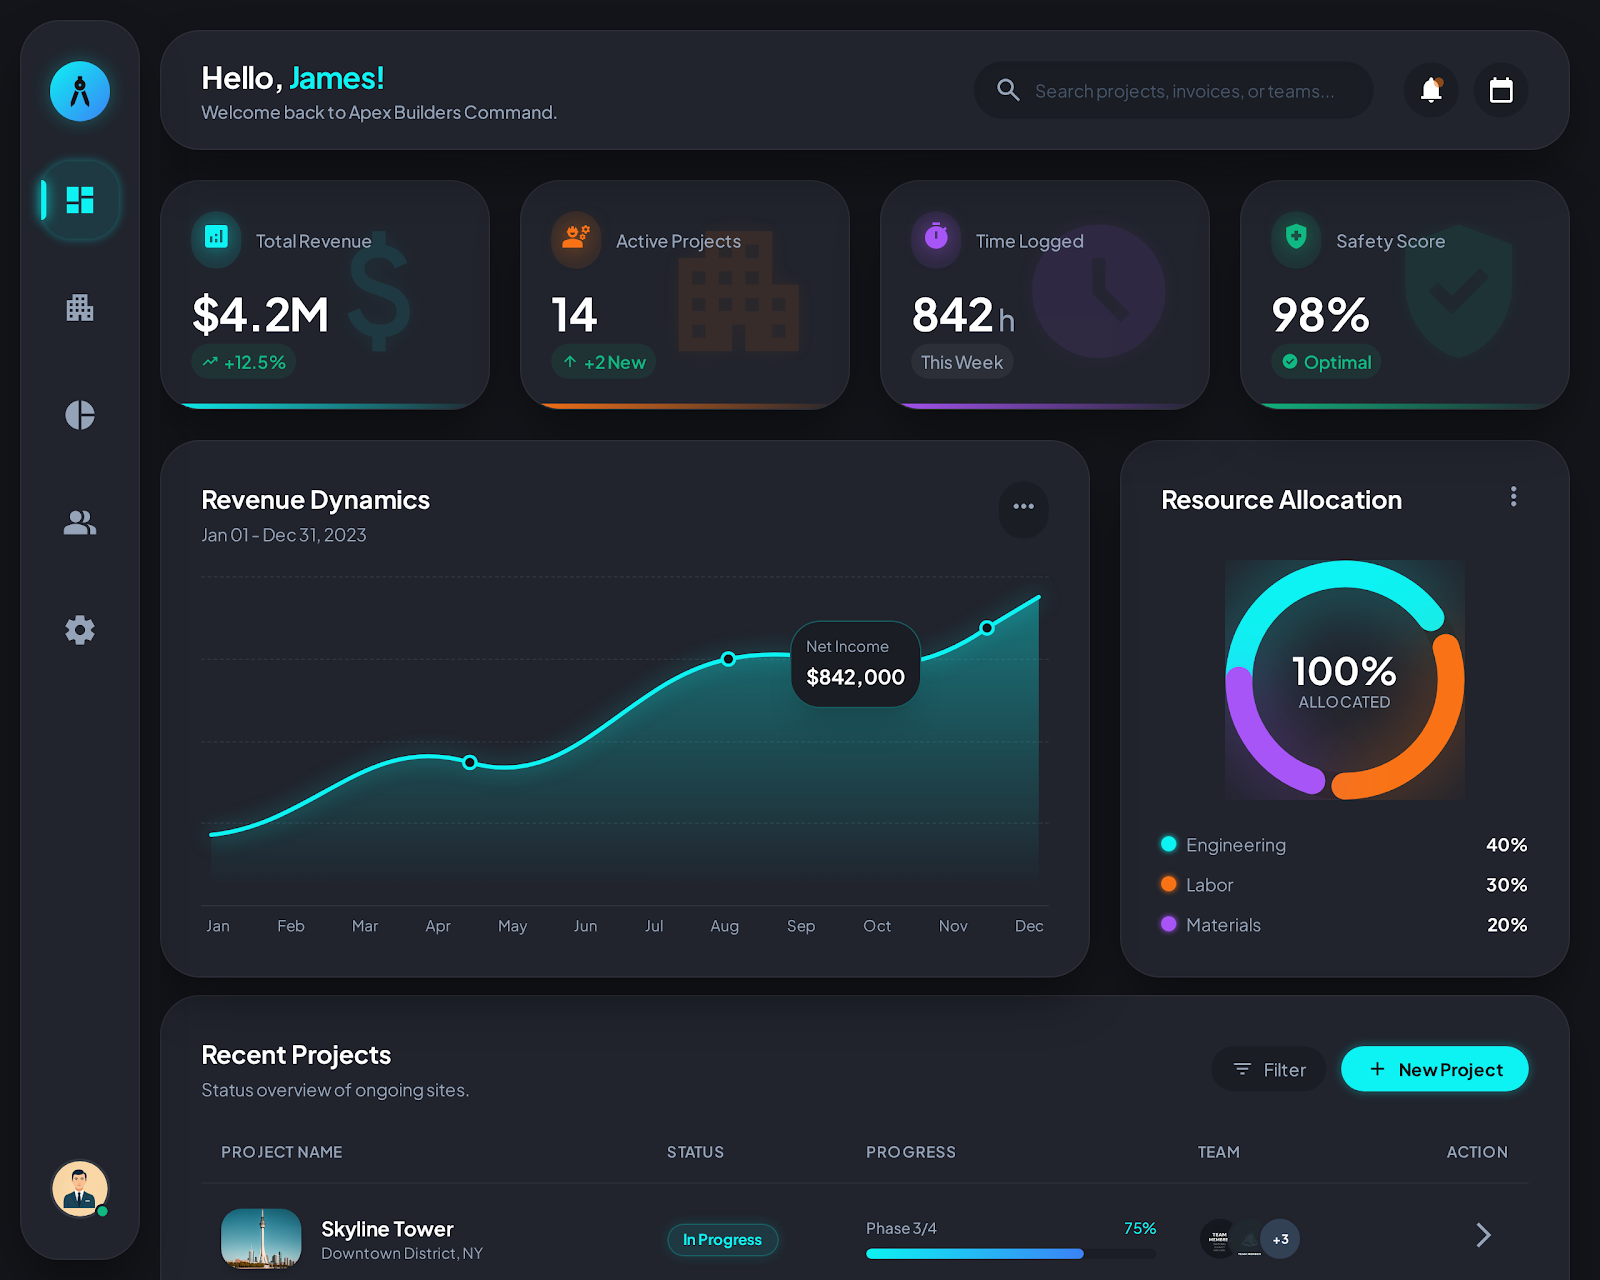
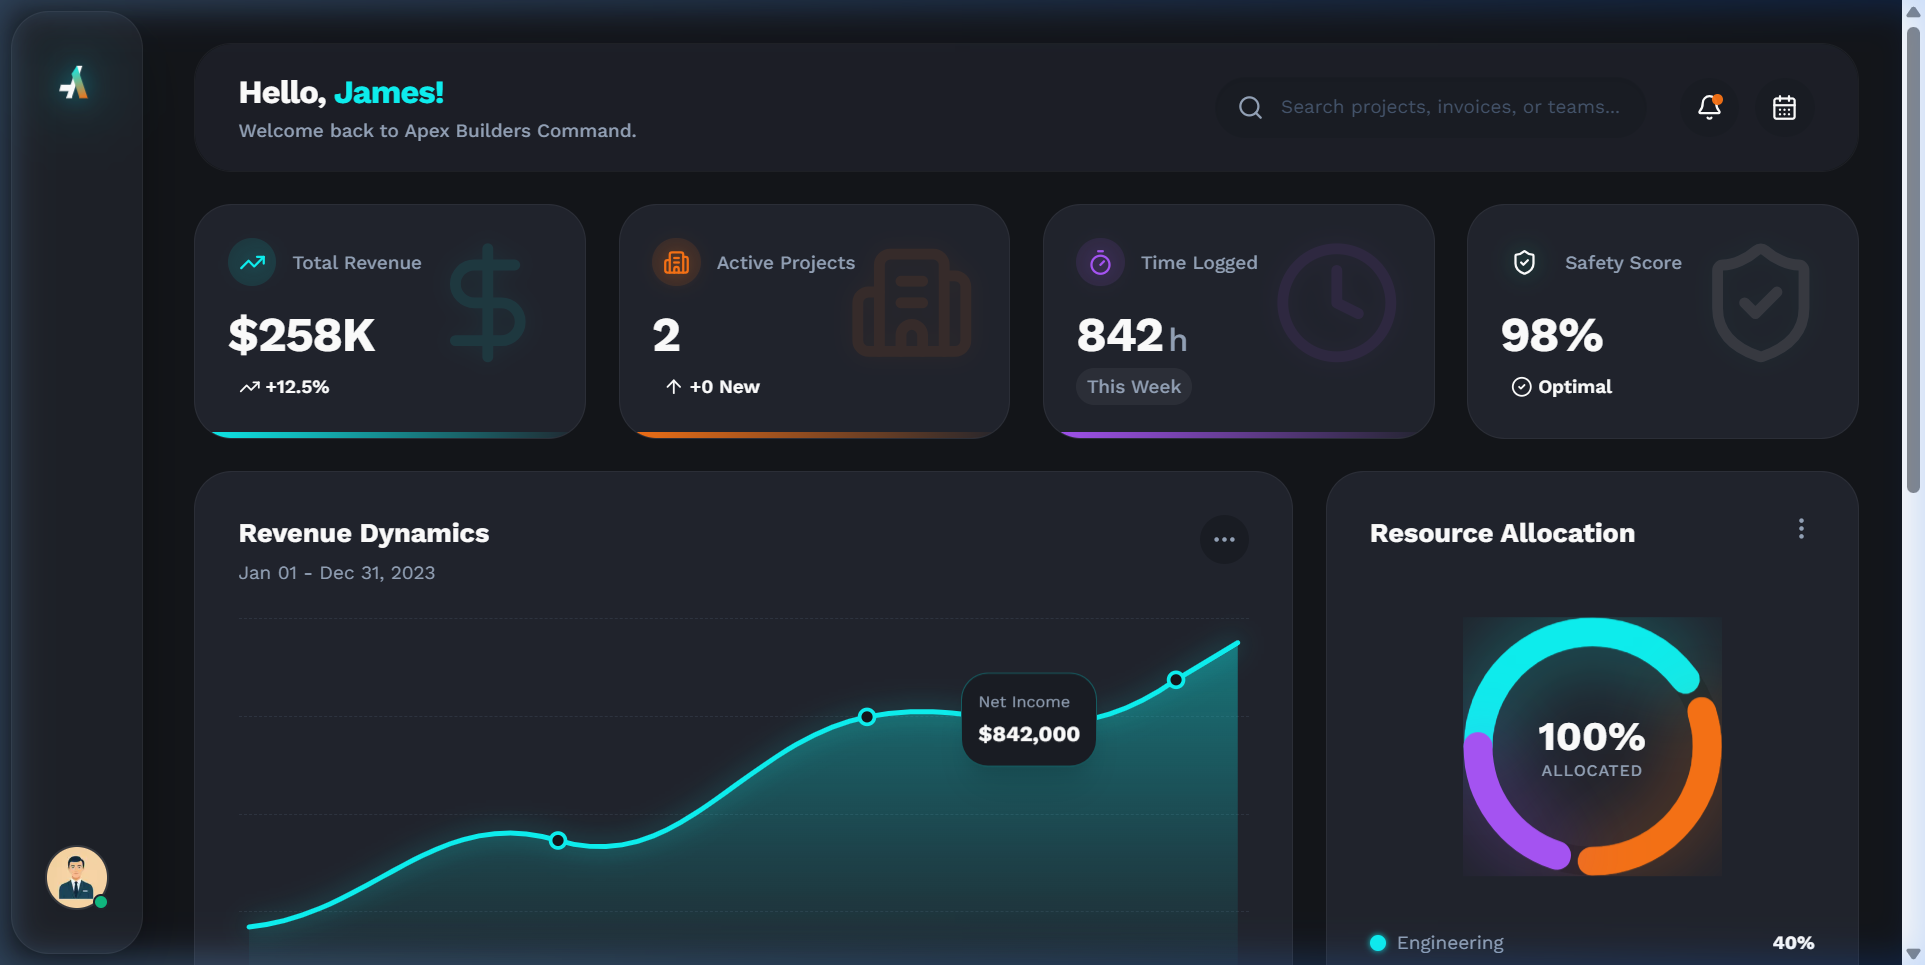
feat: Phase D — job photo upload, dashboard mockup, Vercel env vars
- JobActionCard: photo attach (Supabase Storage → project-media bucket)
- JobActionCard: project_log insert with note + photo URL on status change
- /public/assets/admin-dashboard-mockup.png: fixes landing page hero broken image
- constants.ts: add JOB_STATUS_UPDATE webhook constant
- Vercel: push NEXT_PUBLIC_N8N_AI_CHAT_WEBHOOK, LEAD_WEBHOOK, JOB_STATUS_UPDATE_NOTIFICATION

diff --git a/src/components/tech/JobActionCard.tsx b/src/components/tech/JobActionCard.tsx
@@ -1,0 +1,260 @@
+"use client";
+
+import { useRef, useState } from "react";
+import { CheckCircle, PlayCircle, MapPin, Calendar, Loader2, ChevronRight, Camera, X, ImageIcon } from "lucide-react";
+import { createClient } from "@/lib/supabase/client";
+import { N8N_WEBHOOKS } from "@/lib/constants";
+
+interface Job {
+  id: string;
+  title: string;
+  address?: string | null;
+  status: string;
+  category?: string | null;
+  estimated_completion?: string | null;
+}
+
+type ActionStatus = "idle" | "loading" | "done" | "error";
+
+const STATUS_FLOW: Record<string, { next: string; label: string; color: string }> = {
+  scheduled: { next: "in_progress", label: "Start Job", color: "from-primary to-orange-500" },
+  new: { next: "in_progress", label: "Start Job", color: "from-primary to-orange-500" },
+  in_progress: { next: "completed", label: "Complete Job", color: "from-green-500 to-emerald-400" },
+};
+
+const STATUS_BADGE: Record<string, string> = {
+  in_progress: "bg-emerald-500/20 text-emerald-400 border-emerald-500/30",
+  scheduled: "bg-blue-500/20 text-blue-400 border-blue-500/30",
+  new: "bg-yellow-500/20 text-yellow-400 border-yellow-500/30",
+  completed: "bg-slate-500/20 text-slate-400 border-slate-500/30",
+};
+
+export function JobActionCard({ job: initialJob }: { job: Job }) {
+  const [job, setJob] = useState(initialJob);
+  const [actionStatus, setActionStatus] = useState<ActionStatus>("idle");
+  const [note, setNote] = useState("");
+  const [showInputs, setShowInputs] = useState(false);
+  const [photo, setPhoto] = useState<File | null>(null);
+  const [photoPreview, setPhotoPreview] = useState<string | null>(null);
+  const fileRef = useRef<HTMLInputElement>(null);
+
+  const nextStep = STATUS_FLOW[job.status];
+  const isCompleted = job.status === "completed";
+
+  const handlePhoto = (e: React.ChangeEvent<HTMLInputElement>) => {
+    const file = e.target.files?.[0];
+    if (!file) return;
+    setPhoto(file);
+    setPhotoPreview(URL.createObjectURL(file));
+  };
+
+  const clearPhoto = () => {
+    setPhoto(null);
+    setPhotoPreview(null);
+    if (fileRef.current) fileRef.current.value = "";
+  };
+
+  const handleAction = async () => {
+    if (!nextStep || actionStatus === "loading") return;
+    setActionStatus("loading");
+
+    try {
+      const supabase = createClient();
+
+      // 1. Update project status in Supabase
+      const { error: updateError } = await supabase.from("projects").update({ status: nextStep.next }).eq("id", job.id);
+
+      if (updateError) throw updateError;
+
+      // 2. Upload photo to Supabase Storage (if provided)
+      let photoUrl: string | null = null;
+      if (photo) {
+        const ext = photo.name.split(".").pop();
+        const filePath = `project-logs/${job.id}/${Date.now()}.${ext}`;
+        const { error: uploadError } = await supabase.storage.from("project-media").upload(filePath, photo, { upsert: false });
+
+        if (!uploadError) {
+          const { data: urlData } = supabase.storage.from("project-media").getPublicUrl(filePath);
+          photoUrl = urlData?.publicUrl ?? null;
+        }
+        // Photo upload failure is non-critical — we still proceed
+      }
+
+      // 3. Insert a project_log entry with the note + optional photo
+      if (note.trim() || photoUrl) {
+        await supabase.from("project_logs").insert({
+          project_id: job.id,
+          description: note.trim() || `Status changed to ${nextStep.next.replace("_", " ")}`,
+          log_type: photoUrl ? "photo" : "note",
+          media_urls: photoUrl ? [photoUrl] : [],
+        });
+      }
+
+      // 4. Fire n8n notification (non-blocking)
+      if (N8N_WEBHOOKS.JOB_STATUS_UPDATE) {
+        fetch(N8N_WEBHOOKS.JOB_STATUS_UPDATE, {
+          method: "POST",
+          headers: { "Content-Type": "application/json" },
+          body: JSON.stringify({
+            jobId: job.id,
+            jobTitle: job.title,
+            address: job.address,
+            previousStatus: job.status,
+            newStatus: nextStep.next,
+            note: note.trim() || null,
+            photoUrl,
+            updatedAt: new Date().toISOString(),
+          }),
+        }).catch(() => {
+          /* Non-critical */
+        });
+      }
+
+      // 5. Optimistic UI update
+      setJob((prev) => ({ ...prev, status: nextStep.next }));
+      setActionStatus("done");
+      setShowInputs(false);
+      setNote("");
+      clearPhoto();
+      setTimeout(() => setActionStatus("idle"), 3000);
+    } catch {
+      setActionStatus("error");
+      setTimeout(() => setActionStatus("idle"), 3000);
+    }
+  };
+
+  return (
+    <div className="bg-card border border-white/5 rounded-xl p-6 hover:border-white/10 transition-all group">
+      {/* Top row */}
+      <div className="flex items-start justify-between mb-4">
+        <div className="flex-1 min-w-0">
+          <div className="flex items-center gap-2 mb-1">
+            <span
+              className={`inline-flex items-center px-2.5 py-1 rounded-full text-xs font-bold border capitalize ${
+                STATUS_BADGE[job.status] ?? "bg-slate-500/20 text-slate-400 border-slate-500/30"
+              }`}
+            >
+              {job.status.replace("_", " ")}
+            </span>
+            {job.category && <span className="text-xs text-slate-500 font-medium capitalize">{job.category}</span>}
+          </div>
+          <h3 className="text-white font-bold text-lg leading-tight truncate">{job.title}</h3>
+        </div>
+        <ChevronRight className="h-5 w-5 text-slate-600 group-hover:text-slate-400 transition-colors shrink-0 ml-2" />
+      </div>
+
+      {/* Meta row */}
+      <div className="flex flex-wrap gap-4 mb-5">
+        {job.address && (
+          <div className="flex items-center gap-1.5 text-sm text-slate-400">
+            <MapPin className="h-4 w-4 text-slate-500 shrink-0" />
+            <span className="truncate max-w-[200px]">{job.address.split(",")[0]}</span>
+          </div>
+        )}
+        {job.estimated_completion && (
+          <div className="flex items-center gap-1.5 text-sm text-slate-400">
+            <Calendar className="h-4 w-4 text-slate-500 shrink-0" />
+            <span>
+              {new Date(job.estimated_completion).toLocaleDateString("en-US", {
+                month: "short",
+                day: "numeric",
+              })}
+            </span>
+          </div>
+        )}
+      </div>
+
+      {/* Collapsible note + photo inputs */}
+      {showInputs && !isCompleted && (
+        <div className="mb-4 space-y-3">
+          <textarea
+            value={note}
+            onChange={(e) => setNote(e.target.value)}
+            placeholder="Add a field note — e.g. 'Electrical phase completed, passed inspection'"
+            rows={2}
+            className="w-full bg-background border border-white/10 rounded-xl px-4 py-3 text-white text-sm placeholder-slate-500 focus:outline-none focus:border-primary/50 focus:ring-1 focus:ring-primary/30 transition-all resize-none"
+          />
+
+          {/* Photo upload */}
+          {photoPreview ? (
+            <div className="relative rounded-xl overflow-hidden border border-white/10 w-full aspect-video">
+              {/* eslint-disable-next-line @next/next/no-img-element */}
+              <img src={photoPreview} alt="Site photo preview" className="w-full h-full object-cover" />
+              <button
+                onClick={clearPhoto}
+                className="absolute top-2 right-2 h-7 w-7 rounded-full bg-black/60 flex items-center justify-center text-white hover:bg-black/80 transition-colors"
+              >
+                <X className="h-4 w-4" />
+              </button>
+            </div>
+          ) : (
+            <button
+              onClick={() => fileRef.current?.click()}
+              className="w-full flex items-center justify-center gap-2 py-3 rounded-xl border border-dashed border-white/10 text-slate-400 hover:text-white hover:border-white/20 transition-colors text-sm font-medium"
+            >
+              <Camera className="h-4 w-4" />
+              Attach Site Photo
+            </button>
+          )}
+          <input ref={fileRef} type="file" accept="image/*" capture="environment" onChange={handlePhoto} className="hidden" />
+        </div>
+      )}
+
+      {/* Action row */}
+      {isCompleted ? (
+        <div className="flex items-center gap-2 text-emerald-400 font-semibold text-sm">
+          <CheckCircle className="h-5 w-5" />
+          Job Completed
+        </div>
+      ) : nextStep ? (
+        <div className="flex items-center gap-3">
+          <button
+            onClick={handleAction}
+            disabled={actionStatus === "loading" || actionStatus === "done"}
+            className={`flex-1 flex items-center justify-center gap-2 px-5 py-3 rounded-full font-bold text-sm text-white bg-linear-to-r ${nextStep.color} shadow-glow-primary hover:opacity-90 active:scale-95 transition-all disabled:opacity-60 disabled:cursor-not-allowed`}
+          >
+            {actionStatus === "loading" ? (
+              <>
+                <Loader2 className="h-4 w-4 animate-spin" /> Updating...
+              </>
+            ) : actionStatus === "done" ? (
+              <>
+                <CheckCircle className="h-4 w-4" /> Updated!
+              </>
+            ) : actionStatus === "error" ? (
+              <span>Try Again</span>
+            ) : (
+              <>
+                {job.status === "in_progress" ? <CheckCircle className="h-4 w-4" /> : <PlayCircle className="h-4 w-4" />}
+                {nextStep.label}
+              </>
+            )}
+          </button>
+
+          {!showInputs && actionStatus === "idle" && (
+            <button
+              onClick={() => setShowInputs(true)}
+              className="px-4 py-3 rounded-full bg-muted text-slate-400 hover:text-white hover:bg-white/10 border border-white/5 text-sm font-medium transition-colors flex items-center gap-1.5"
+            >
+              <ImageIcon className="h-4 w-4" />
+              Note
+            </button>
+          )}
+
+          {showInputs && (
+            <button
+              onClick={() => {
+                setShowInputs(false);
+                setNote("");
+                clearPhoto();
+              }}
+              className="px-4 py-3 rounded-full bg-muted text-slate-400 hover:text-white hover:bg-white/10 border border-white/5 text-sm font-medium transition-colors"
+            >
+              Cancel
+            </button>
+          )}
+        </div>
+      ) : null}
+    </div>
+  );
+}

diff --git a/src/app/(dashboard)/tech/dashboard/page.tsx b/src/app/(dashboard)/tech/dashboard/page.tsx
@@ -5,7 +5,6 @@ import {
   CheckCircle,
   TrendingUp,
   MapPin,
-  ArrowRight,
   ChevronRight,
   QrCode,
   Search,
@@ -14,6 +13,7 @@ import {
   Zap,
 } from "lucide-react";
 import { createClient as createSupabaseClient } from "@supabase/supabase-js";
+import { JobActionCard } from "@/components/tech/JobActionCard";
 
 // Demo tech UUID — replaced with session user ID once auth is wired
 const DEMO_TECH_ID = "c26995ea-07f9-4f14-8619-d25f352a3165";
@@ -236,10 +236,7 @@ export default async function TechnicianDashboard() {
                   </div>
                 </div>
               </div>
-              <button className="w-full md:w-auto px-10 py-4 bg-linear-to-r from-primary to-orange-500 hover:to-orange-400 text-white font-bold text-lg rounded-full shadow-glow-primary transform transition-all active:scale-95 flex items-center justify-center gap-3 group/btn">
-                <span>COMPLETE JOB</span>
-                <ArrowRight className="h-6 w-6 group-hover/btn:translate-x-1 transition-transform" />
-              </button>
+              <JobActionCard job={heroJob} />
             </div>
           </div>
         </div>

diff --git a/src/lib/constants.ts b/src/lib/constants.ts
@@ -7,4 +7,6 @@ export const N8N_WEBHOOKS = {
   AI_CHAT: process.env.NEXT_PUBLIC_N8N_AI_CHAT_WEBHOOK ?? "",
   /** New client lead capture — landing page form submission */
   LEAD_CAPTURE: process.env.NEXT_PUBLIC_N8N_LEAD_WEBHOOK ?? "",
+  /** Technician job status update — fires when tech starts or completes a job */
+  JOB_STATUS_UPDATE: process.env.NEXT_PUBLIC_N8N_JOB_STATUS_UPDATE_NOTIFICATION ?? "",
 } as const;
